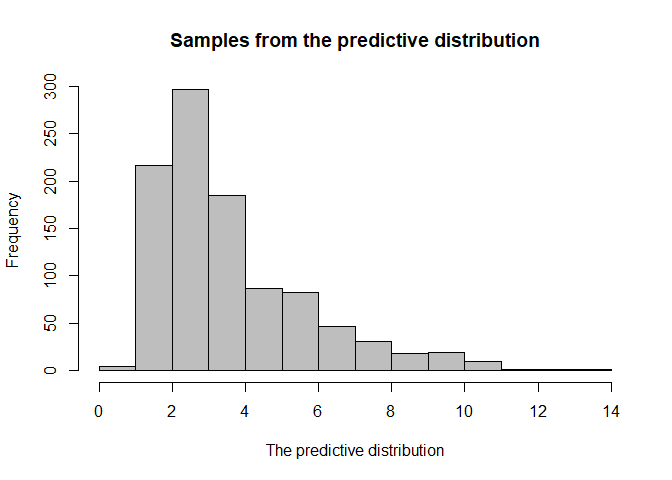
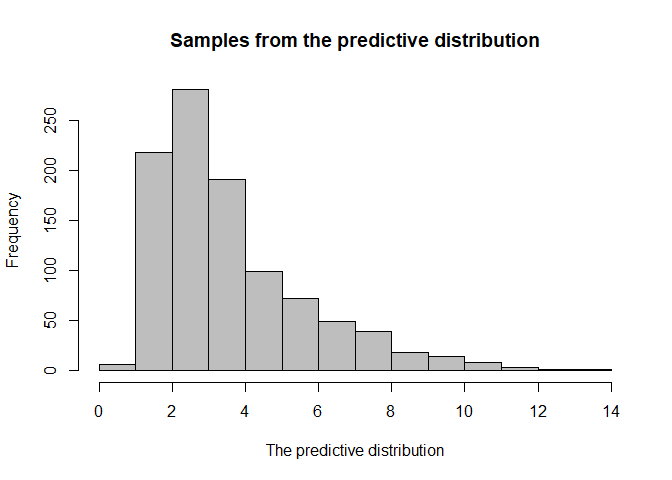
Updated README file.

diff --git a/README.md b/README.md
@@ -246,8 +246,7 @@ There is a function to simulate from the predictive distribution.
 predObs = rpred(n = 1000, 
                 mean = pred.mean, 
                 sd = pred.sd, 
-                lambda = pred.lambda, 
-                approxn = FALSE)
+                lambda = pred.lambda)
 hist(predObs,
      col = "gray",
      xlab = "The predictive distribution",
@@ -298,7 +297,7 @@ rmse = rmseEst(obs = obs,
 ```
 
     ## 
-    ##  The root mean squared error is: 0.3619098
+    ##  The root mean squared error is: 0.3620311
 
 To calculate the log-score type:
 
@@ -325,19 +324,15 @@ ribx = ribxEst(obs = obs,
     ## 
     ##  The reliability index is: 0.8150685
 
-<!-- To calculate the Continuous Ranked Probability Score (CRPS) use: -->
+To calculate the Continuous Ranked Probability Score (CRPS) use:
 
-<!-- ```{r eval = FALSE} -->
-
-<!-- crps = crpsEst(obs = obs,  -->
-
-<!--                mean = pred.mean, -->
-
-<!--                sd = pred.sd, -->
-
-<!--                lambda = pred.lambda) -->
-
-<!-- ``` -->
+``` r
+crps = crpsEst(obs = obs,
+               mean = pred.mean,
+               sd = pred.sd,
+               lambda = pred.lambda,
+               Nsamples = 10000)
+```
 
 You can get a summary table containing all performance measures
 implemented:
@@ -357,9 +352,11 @@ perfM = perfMeasures(obs = obs,
     ##  -----------------------------------------
     ## 
     ##  The mean absolute error is: 0.2328819 
-    ##  The root mean squared error is: 0.3620938 
+    ##  The root mean squared error is: 0.3618776 
     ##  The log score is: -0.08712402 
     ##  The reliability index is: 0.8150685 
+    ## 
+    ##  The mean absolute error is: 0.1701898 
     ## 
     ##  =======================================================
 
@@ -379,9 +376,10 @@ perfM
 
     ##   Performance.measure       Value
     ## 1                 MAE  0.23288189
-    ## 2                RMSE  0.36194286
+    ## 2                RMSE  0.36232184
     ## 3                Logs -0.08712402
     ## 4                RIBX  0.81506849
+    ## 5                CRPS  0.17013894
 
 Plot the prediction and the observation in the first and last 100 time
 points of the test period
@@ -394,7 +392,7 @@ plotPred(obs = obs,
          lambda = pred.lambda)
 ```
 
-![](README_files/figure-gfm/unnamed-chunk-19-1.png)<!-- -->
+![](README_files/figure-gfm/unnamed-chunk-20-1.png)<!-- -->
 
 ``` r
 plotPred(obs = obs,
@@ -404,7 +402,7 @@ plotPred(obs = obs,
          lambda = pred.lambda)
 ```
 
-![](README_files/figure-gfm/unnamed-chunk-19-2.png)<!-- -->
+![](README_files/figure-gfm/unnamed-chunk-20-2.png)<!-- -->
 
 Random predictive trajectories for 10 time points THORDIS: Forklare
 hvorfor vi gjør dette?
@@ -418,7 +416,7 @@ rPlotPred(obs = obs,
          n.random = 10)
 ```
 
-![](README_files/figure-gfm/unnamed-chunk-20-1.png)<!-- -->
+![](README_files/figure-gfm/unnamed-chunk-21-1.png)<!-- -->
 
 Learn correlation from previous timepoints (last 100 time points in test
 period) THORDIS: Forklare hvorfor vi gjør dette?
@@ -434,4 +432,4 @@ rCorr(obs = obs,
       SWHobs = SWH[4,4,]) 
 ```
 
-![](README_files/figure-gfm/unnamed-chunk-21-1.png)<!-- -->
+![](README_files/figure-gfm/unnamed-chunk-22-1.png)<!-- -->
